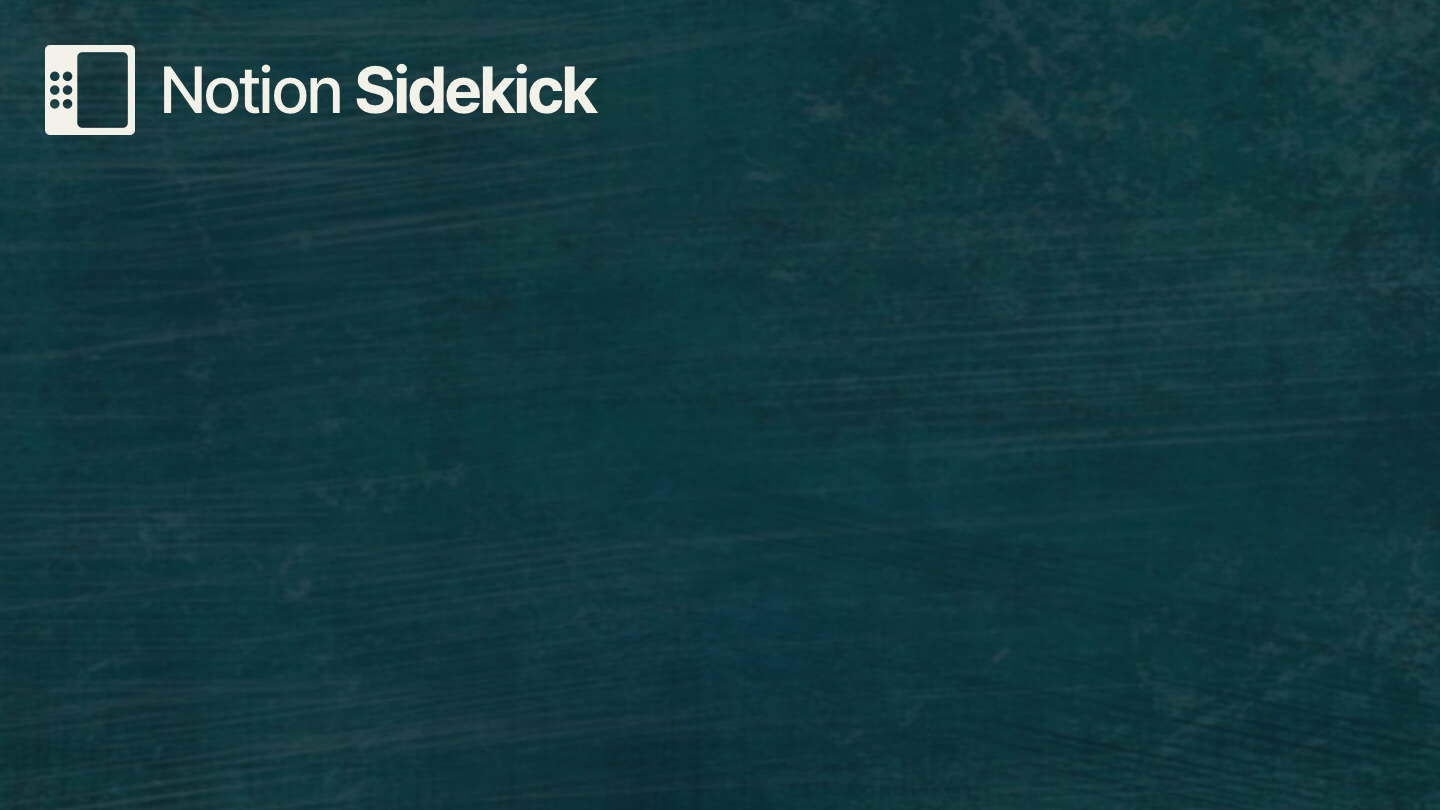
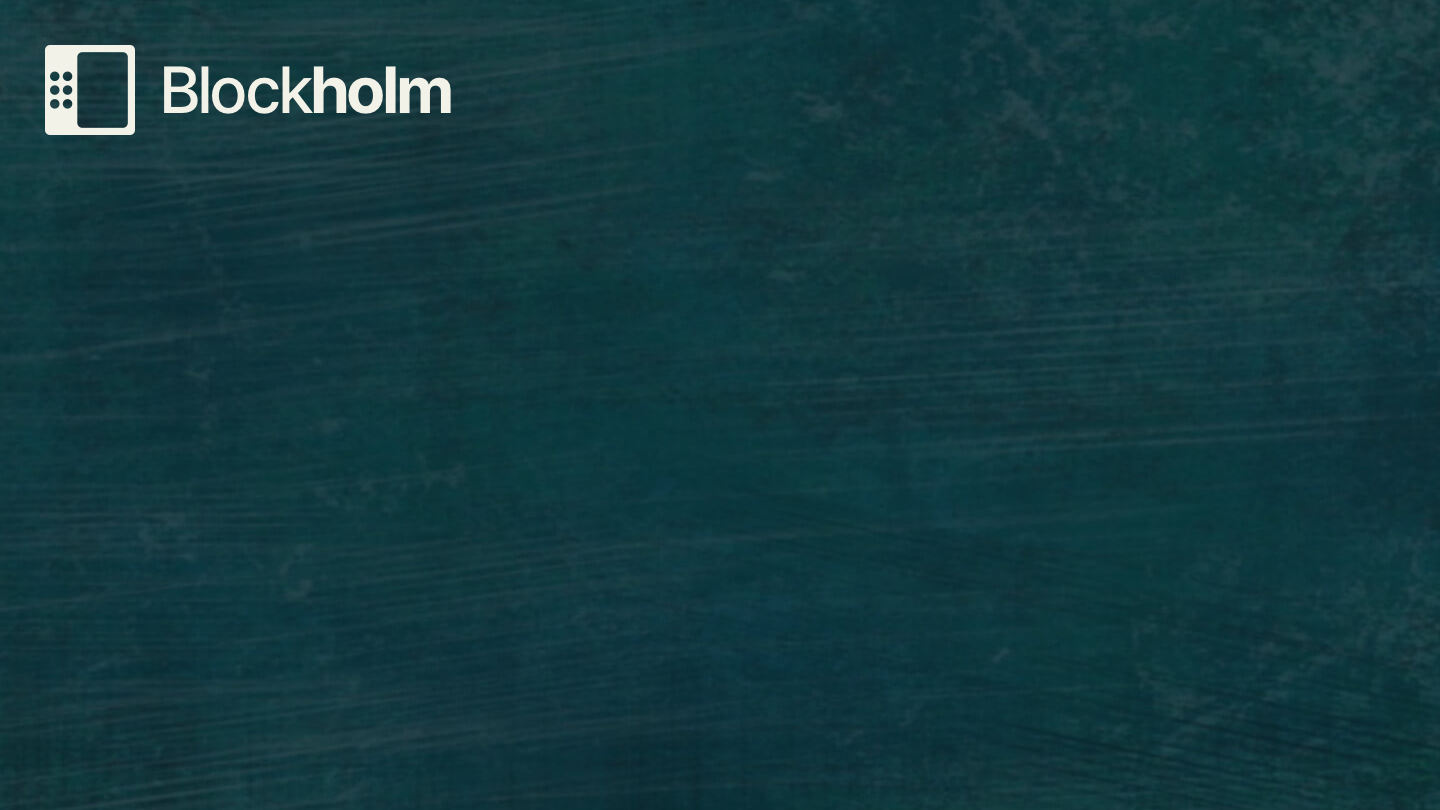
Renames to Blockholm

Changed region(s): [[0.0938, 0.0617, 0.4375, 0.1543]]

diff --git a/sidekick/theme/templates/base.html b/sidekick/theme/templates/base.html
@@ -14,7 +14,7 @@
         <link rel="icon" type="image/svg+xml" href="{% static 'favicons/favicon.svg' %}">
         <link rel="shortcut icon" href="{% static 'favicons/favicon.ico' %}">
         <link rel="apple-touch-icon" sizes="180x180" href="{% static 'favicons/apple-touch-icon.png' %}">
-        <meta name="apple-mobile-web-app-title" content="Sidekick">
+        <meta name="apple-mobile-web-app-title" content="Blockholm">
         <link rel="manifest" href="{% static 'favicons/site.webmanifest' %}">
         <script defer data-domain="{{ request.get_host }}" src="https://plausible.io/js/plausible.js"></script>
         {% recaptcha_script %}
@@ -24,9 +24,9 @@
             <div class="container">
                 {% block header %}
                     <div class="show-flex flex-wrap justify-content-between">
-                        <a href="/" class="show-flex align-items-center text-light text-decoration-none">
-                            <img alt="Logo" src="{% static 'img/logo.png' %}" class="margin-end-1" style="height: 1rem;">
-                            Notion&nbsp;<b>Sidekick</b>
+                        <a href="/" class="show-flex align-items-center text-light text-decoration-none font-weight-light">
+                            <img alt="Logo" src="{% static 'img/logo-light.png' %}" class="margin-end-1" style="height: 1rem;">
+                            Block<span class="font-weight-bold">holm</span>
                         </a>
 
                         <button type="submit" class="show-tablet-none btn btn-lg" data-toggle="menu">

diff --git a/sidekick/mail/templates/mail/base.html b/sidekick/mail/templates/mail/base.html
@@ -57,7 +57,7 @@
                                                             <tbody>
                                                                 <tr>
                                                                     <td style="line-height: 24px; font-size: 16px; margin: 0;" align="left">
-                                                                        <a href="{{ BASE_URL }}/" style="border-width: 0;"><img alt="Notion Sidekick" src="{% static 'img/email-footer.png' %}" class="w-40" style="height: auto; line-height: 100%; outline: none; text-decoration: none; display: block; width: 160px; border-style: none; border-width: 0;" width="160"></a>
+                                                                        <a href="{{ BASE_URL }}/" style="border-width: 0;"><img alt="Blockholm" src="{% static 'img/email-footer.png' %}" class="w-40" style="height: auto; line-height: 100%; outline: none; text-decoration: none; display: block; width: 160px; border-style: none; border-width: 0;" width="160"></a>
                                                                     </td>
                                                                 </tr>
                                                             </tbody>

diff --git a/sidekick/newsletter/templates/newsletter/post_detail.html b/sidekick/newsletter/templates/newsletter/post_detail.html
@@ -35,7 +35,7 @@
         <div class="cell-tablet-7 margin-x-auto">
             <div class="show-flex align-items-center justify-content-center margin-bottom-3">
                 <img alt="Logo" src="{% static 'img/logo.png' %}" class="margin-end-2" style="height: 2rem;">
-                <div class="display-2 site-name">Notion <span class="font-weight-bold">Sidekick</span></div>
+                <div class="display-2 site-name">Block<span class="font-weight-bold">holm</span></div>
             </div>
 
             <form action="{% url 'create_subscriber' %}" method="post" class="show-tablet-flex">

diff --git a/sidekick/front/templates/front/index.html b/sidekick/front/templates/front/index.html
@@ -5,7 +5,7 @@
     <div class="show-flex flex-wrap justify-content-between margin-bottom-3 margin-bottom-tablet-5">
         <div class="show-flex margin-start-0 site-brand align-items-center">
             <img alt="Logo" src="{% static 'img/logo-light.png' %}" class="margin-end-2" style="height: 4rem;">
-            <div class="display-2 site-name">Notion<br><span class="font-weight-bold">Sidekick</span></div>
+            <div class="display-2 site-name">Block<span class="font-weight-bold">holm</span></div>
         </div>
 
         {% include 'theme/main_menu.html' %}

diff --git a/sidekick/newsletter/templates/newsletter/digest_email.html b/sidekick/newsletter/templates/newsletter/digest_email.html
@@ -7,7 +7,7 @@
             <tr>
                 <td style="width: 100%; height: 40px; margin: 0;" align="left" width="100%" height="40">
                     <p style="line-height: 24px; font-size: 16px; width: 100%; margin: 0; text-align: center;" align="left">
-                        Hey {{ name }} 👋<br>Here&rsquo;re the latest from Notion Sidekick.
+                        Hey {{ name }} 👋<br>Here&rsquo;re the latest from Blockholm.
                     </p>
                 </td>
             </tr>

diff --git a/sidekick/newsletter/templates/newsletter/subscriber_form.html b/sidekick/newsletter/templates/newsletter/subscriber_form.html
@@ -5,7 +5,7 @@
     <div class="grid text-center margin-bottom-4">
         <div class="cell-tablet-8 margin-x-auto">
             {% if not form.instance.pk %}
-                <h1>Get Notion Sidekick in your inbox</h1>
+                <h1>Get Blockholm in your inbox</h1>
                 <p class="lead">
                     This blog publishes at all sorts of times, so to save your inbox
                     we&rsquo;ll email you every Thursday with the stuff you&rsquo;ve missed.

diff --git a/sidekick/newsletter/templates/newsletter/subscriber_created.html b/sidekick/newsletter/templates/newsletter/subscriber_created.html
@@ -10,7 +10,7 @@
     <div class="grid margin-bottom-3 margin-bottom-tablet-5">
         <div class="cell-tablet-8 margin-x-auto text-center">
             <p class="lead">
-                Thanks for checking out Notion Sidekick. You can
+                Thanks for checking out Blockholm. You can
                 expect your first email on Thursday, with all the
                 latest tips and templates to help you get the most
                 out of Notion.

diff --git a/sidekick/newsletter/views.py b/sidekick/newsletter/views.py
@@ -40,7 +40,7 @@ class PostListView(PostMixin, OpenGraphMixin, ListView):
     og_description = 'Drown in an ocean of posts about Notion.'
     ld_type = 'Blog'
     ld_attributes = {
-        'name': 'Notion Sidekick'
+        'name': 'Blockholm'
     }
 
     def get_tags(self):
@@ -85,7 +85,7 @@ class PostListView(PostMixin, OpenGraphMixin, ListView):
         return queryset.distinct()
 
     def get_seo_title(self):
-        title = 'Notion Sidekick posts'
+        title = 'Blockholm posts'
 
         if tags := self.get_tags():
             title += ' tagged %s' % ', '.join(
@@ -161,7 +161,7 @@ class PostDetailView(PostMixin, OpenGraphArticleMixin, DetailView):
 class CreateSubscriberView(SEOMixin, FormView):
     template_name = 'newsletter/subscriber_form.html'
     form_class = SubscriberForm
-    seo_title = 'Subscribe to the Notion Sidekick newsletter'
+    seo_title = 'Subscribe to the Blockholm newsletter'
 
     def form_valid(self, form):
         form.save()

diff --git a/sidekick/settings.py b/sidekick/settings.py
@@ -6,7 +6,7 @@ import os
 BASE_DIR = Path(__file__).resolve().parent.parent
 SECRET_KEY = os.getenv('SECRET_KEY')
 DEBUG = not not os.getenv('DEBUG')
-DOMAIN = os.getenv('DOMAIN', 'notionsidekick.com')
+DOMAIN = os.getenv('DOMAIN', 'blockholm.co')
 ALLOWED_HOSTS = ['*']
 
 INSTALLED_APPS = [
@@ -136,10 +136,10 @@ RECAPTCHA = {
 
 ANYMAIL = {
     'MAILERSEND_API_TOKEN': os.getenv('MAILERSEND_API_TOKEN'),
-    'MAILERSEND_SENDER_DOMAIN': 'notionsidekick.com'
+    'MAILERSEND_SENDER_DOMAIN': 'blockholm.co'
 }
 
 EMAIL_BACKEND = 'anymail.backends.mailersend.EmailBackend'
-DEFAULT_FROM_NAME = 'Notion Sidekick'
-DEFAULT_FROM_EMAIL = 'updates@notionsidekick.com'
-DEFAULT_REPLYTO_EMAIL = 'editor@notionsidekick.com'
+DEFAULT_FROM_NAME = 'Blockholm'
+DEFAULT_FROM_EMAIL = 'updates@blockholm.co'
+DEFAULT_REPLYTO_EMAIL = 'editor@blockholm.co'

diff --git a/sidekick/newsletter/feeds.py b/sidekick/newsletter/feeds.py
@@ -1,7 +1,5 @@
-from django.conf import settings
 from django.contrib.syndication.views import Feed
-from django.utils import feedgenerator, timezone, html
-from markdown import markdown
+from django.utils import feedgenerator, timezone
 from .models import Post
 
 
@@ -18,8 +16,8 @@ class ContenetEncodedRss201rev2Feed(feedgenerator.Rss201rev2Feed):
 
 class PostFeed(Feed):
     feed_type = ContenetEncodedRss201rev2Feed
-    title = 'Notion Sidekick'
-    link = 'https://notionsidekick.com/posts/'
+    title = 'Blockholm'
+    link = 'https://blockholm.co/posts/'
     description = 'Tips and templates to help you get the most out of Notion.'
     author_name = 'Mark Steadman'
     item_author_name = 'Mark Steadman'

diff --git a/sidekick/front/views.py b/sidekick/front/views.py
@@ -16,17 +16,17 @@ from .models import Page
 
 class IndexView(SEOMixin, OpenGraphMixin, LinkedDataMixin, TemplateView):
     template_name = 'front/index.html'
-    seo_title = 'Notion Sidekick'
+    seo_title = 'Blockholm'
     seo_description = 'Notion blog and newsletter with tips and templates'
     og_type = 'website'
-    og_title = 'Notion Sidekick'
+    og_title = 'Blockholm'
     og_description = (
         'Weekly tips and templates to help you get the most from Notion.'
     )
 
     ld_type = 'WebSite'
     ld_attributes = {
-        'name': 'Notion Sidekick',
+        'name': 'Blockholm',
         'publisher': {
             '@type': 'Person',
             'name': 'Mark Steadman',

diff --git a/sidekick/newsletter/models.py b/sidekick/newsletter/models.py
@@ -242,7 +242,7 @@ class Subscriber(models.Model):
         posts = posts.order_by('published')[:5]
         render_to_inbox(
             (self.name, self.email),
-            'Your weekly digest from Notion Sidekick',
+            'Your weekly digest from Blockholm',
             'newsletter/digest_email.html',
             {
                 'name': name,
